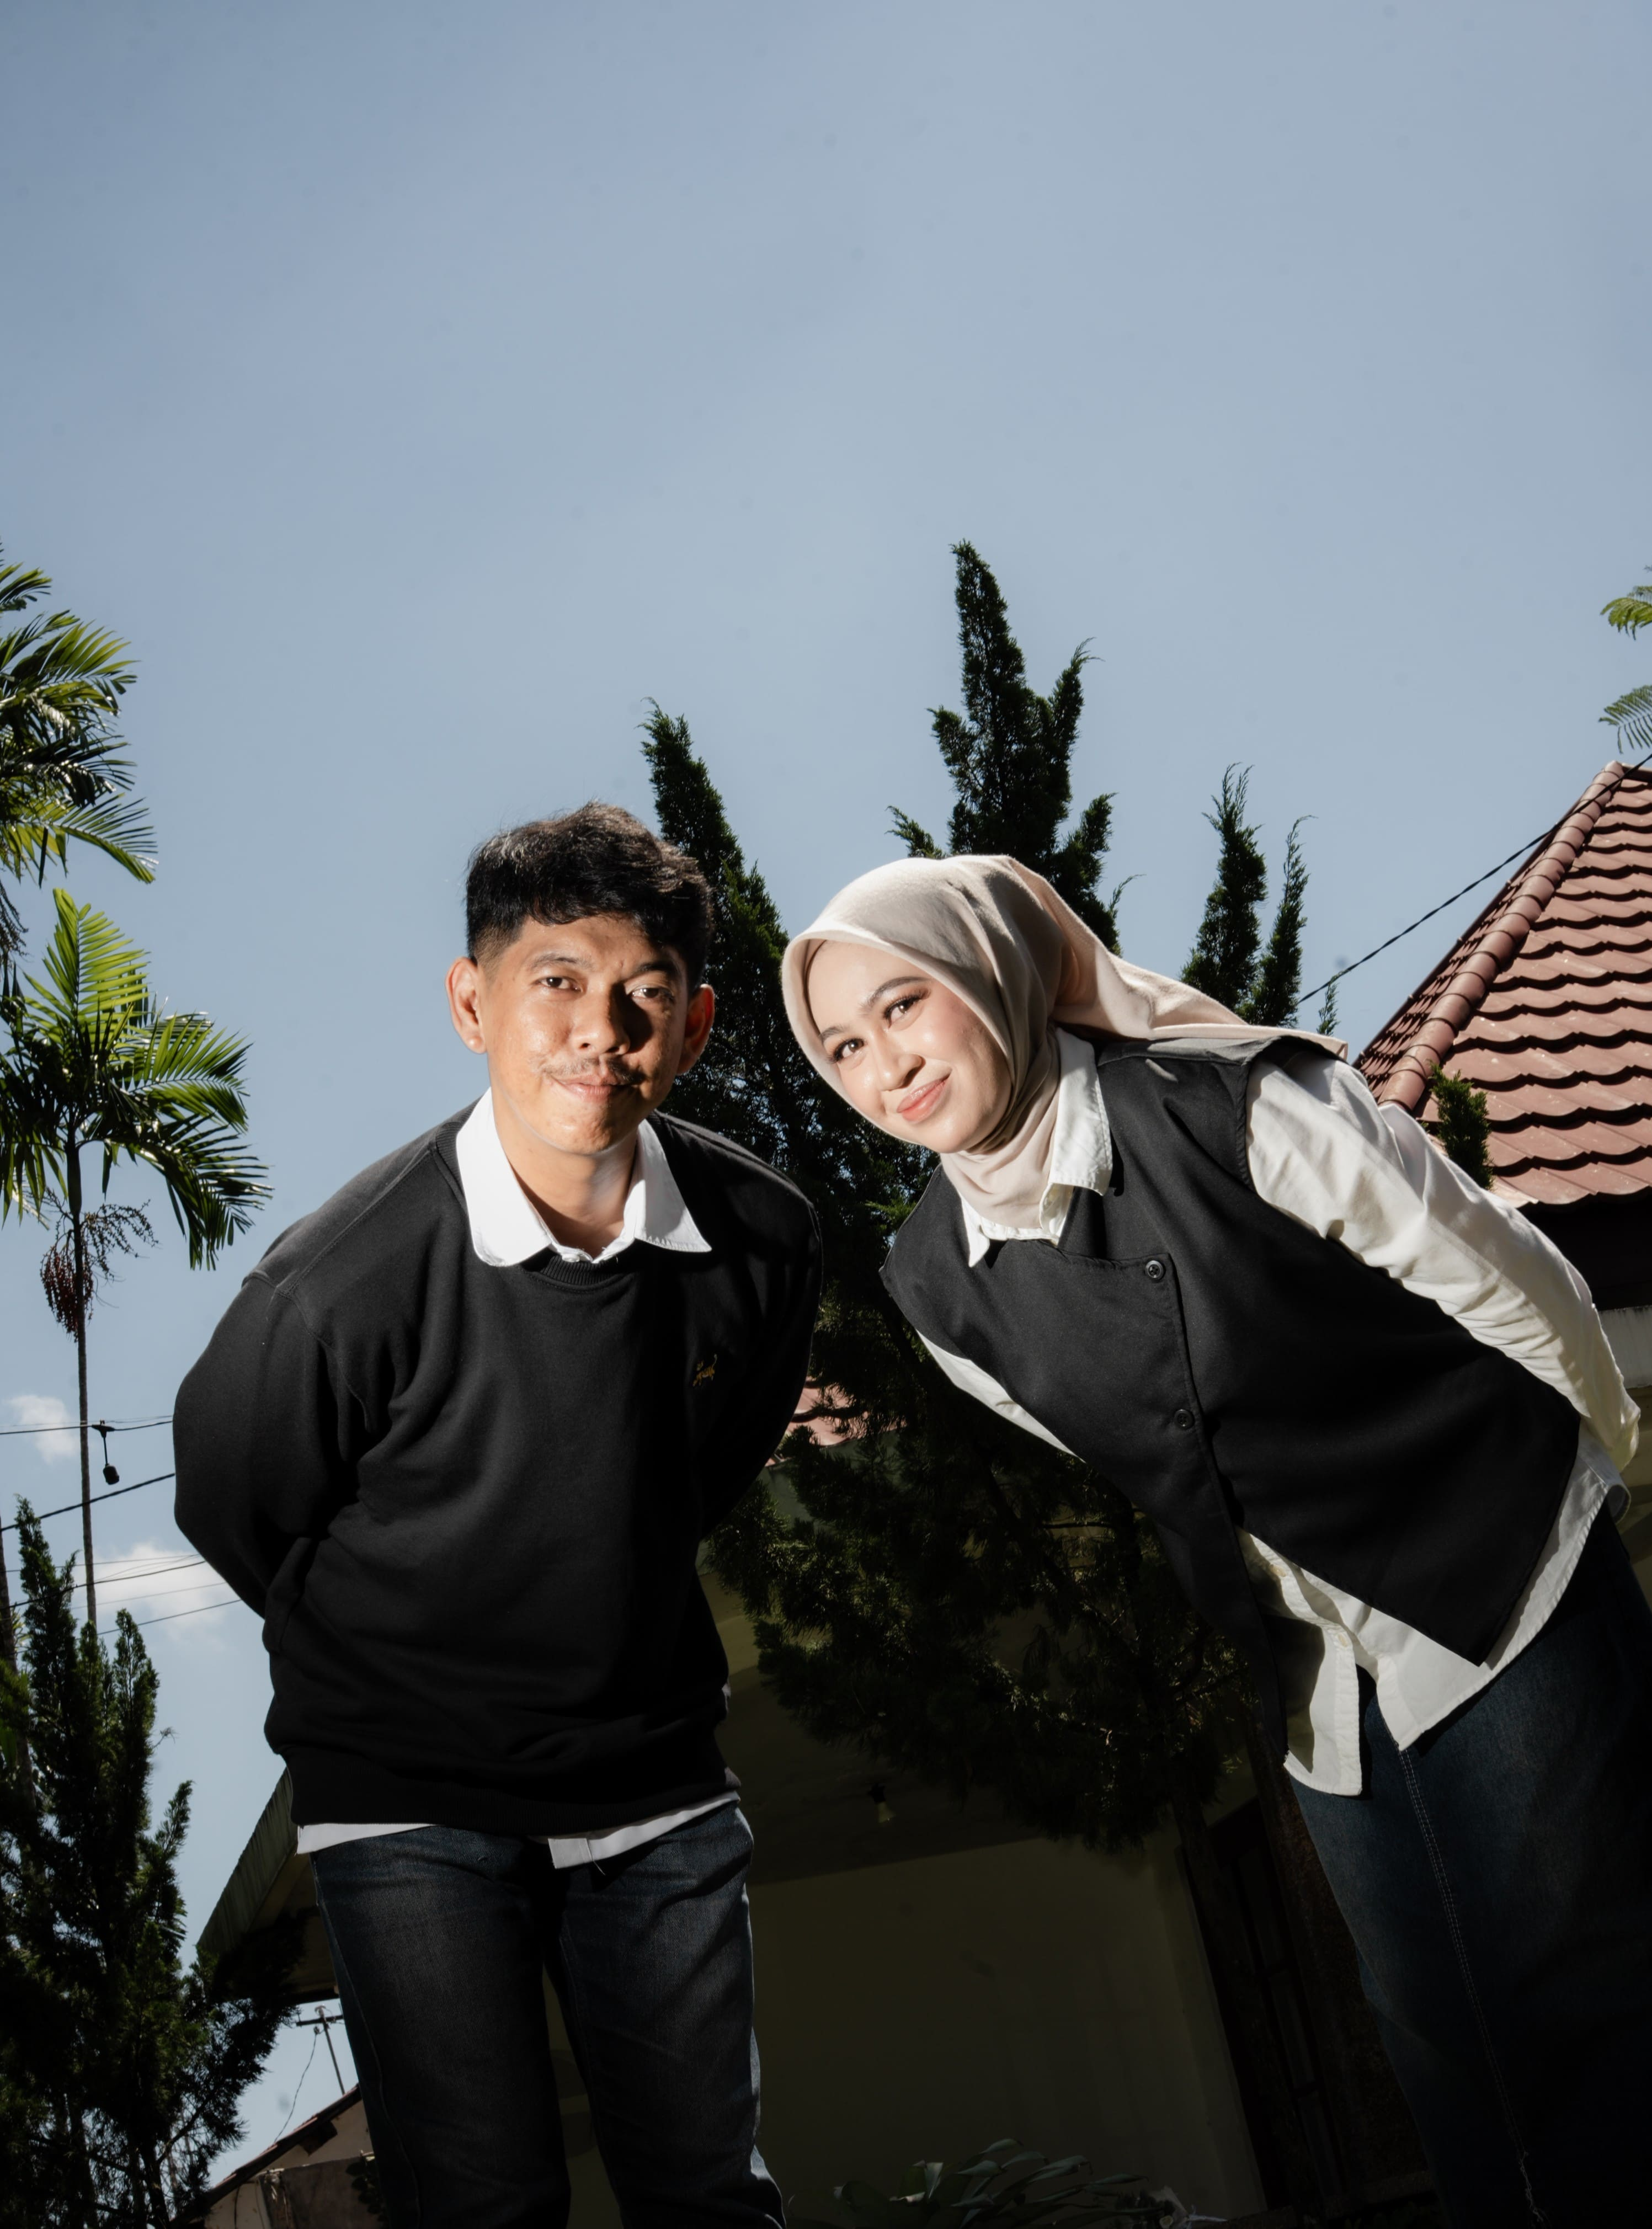
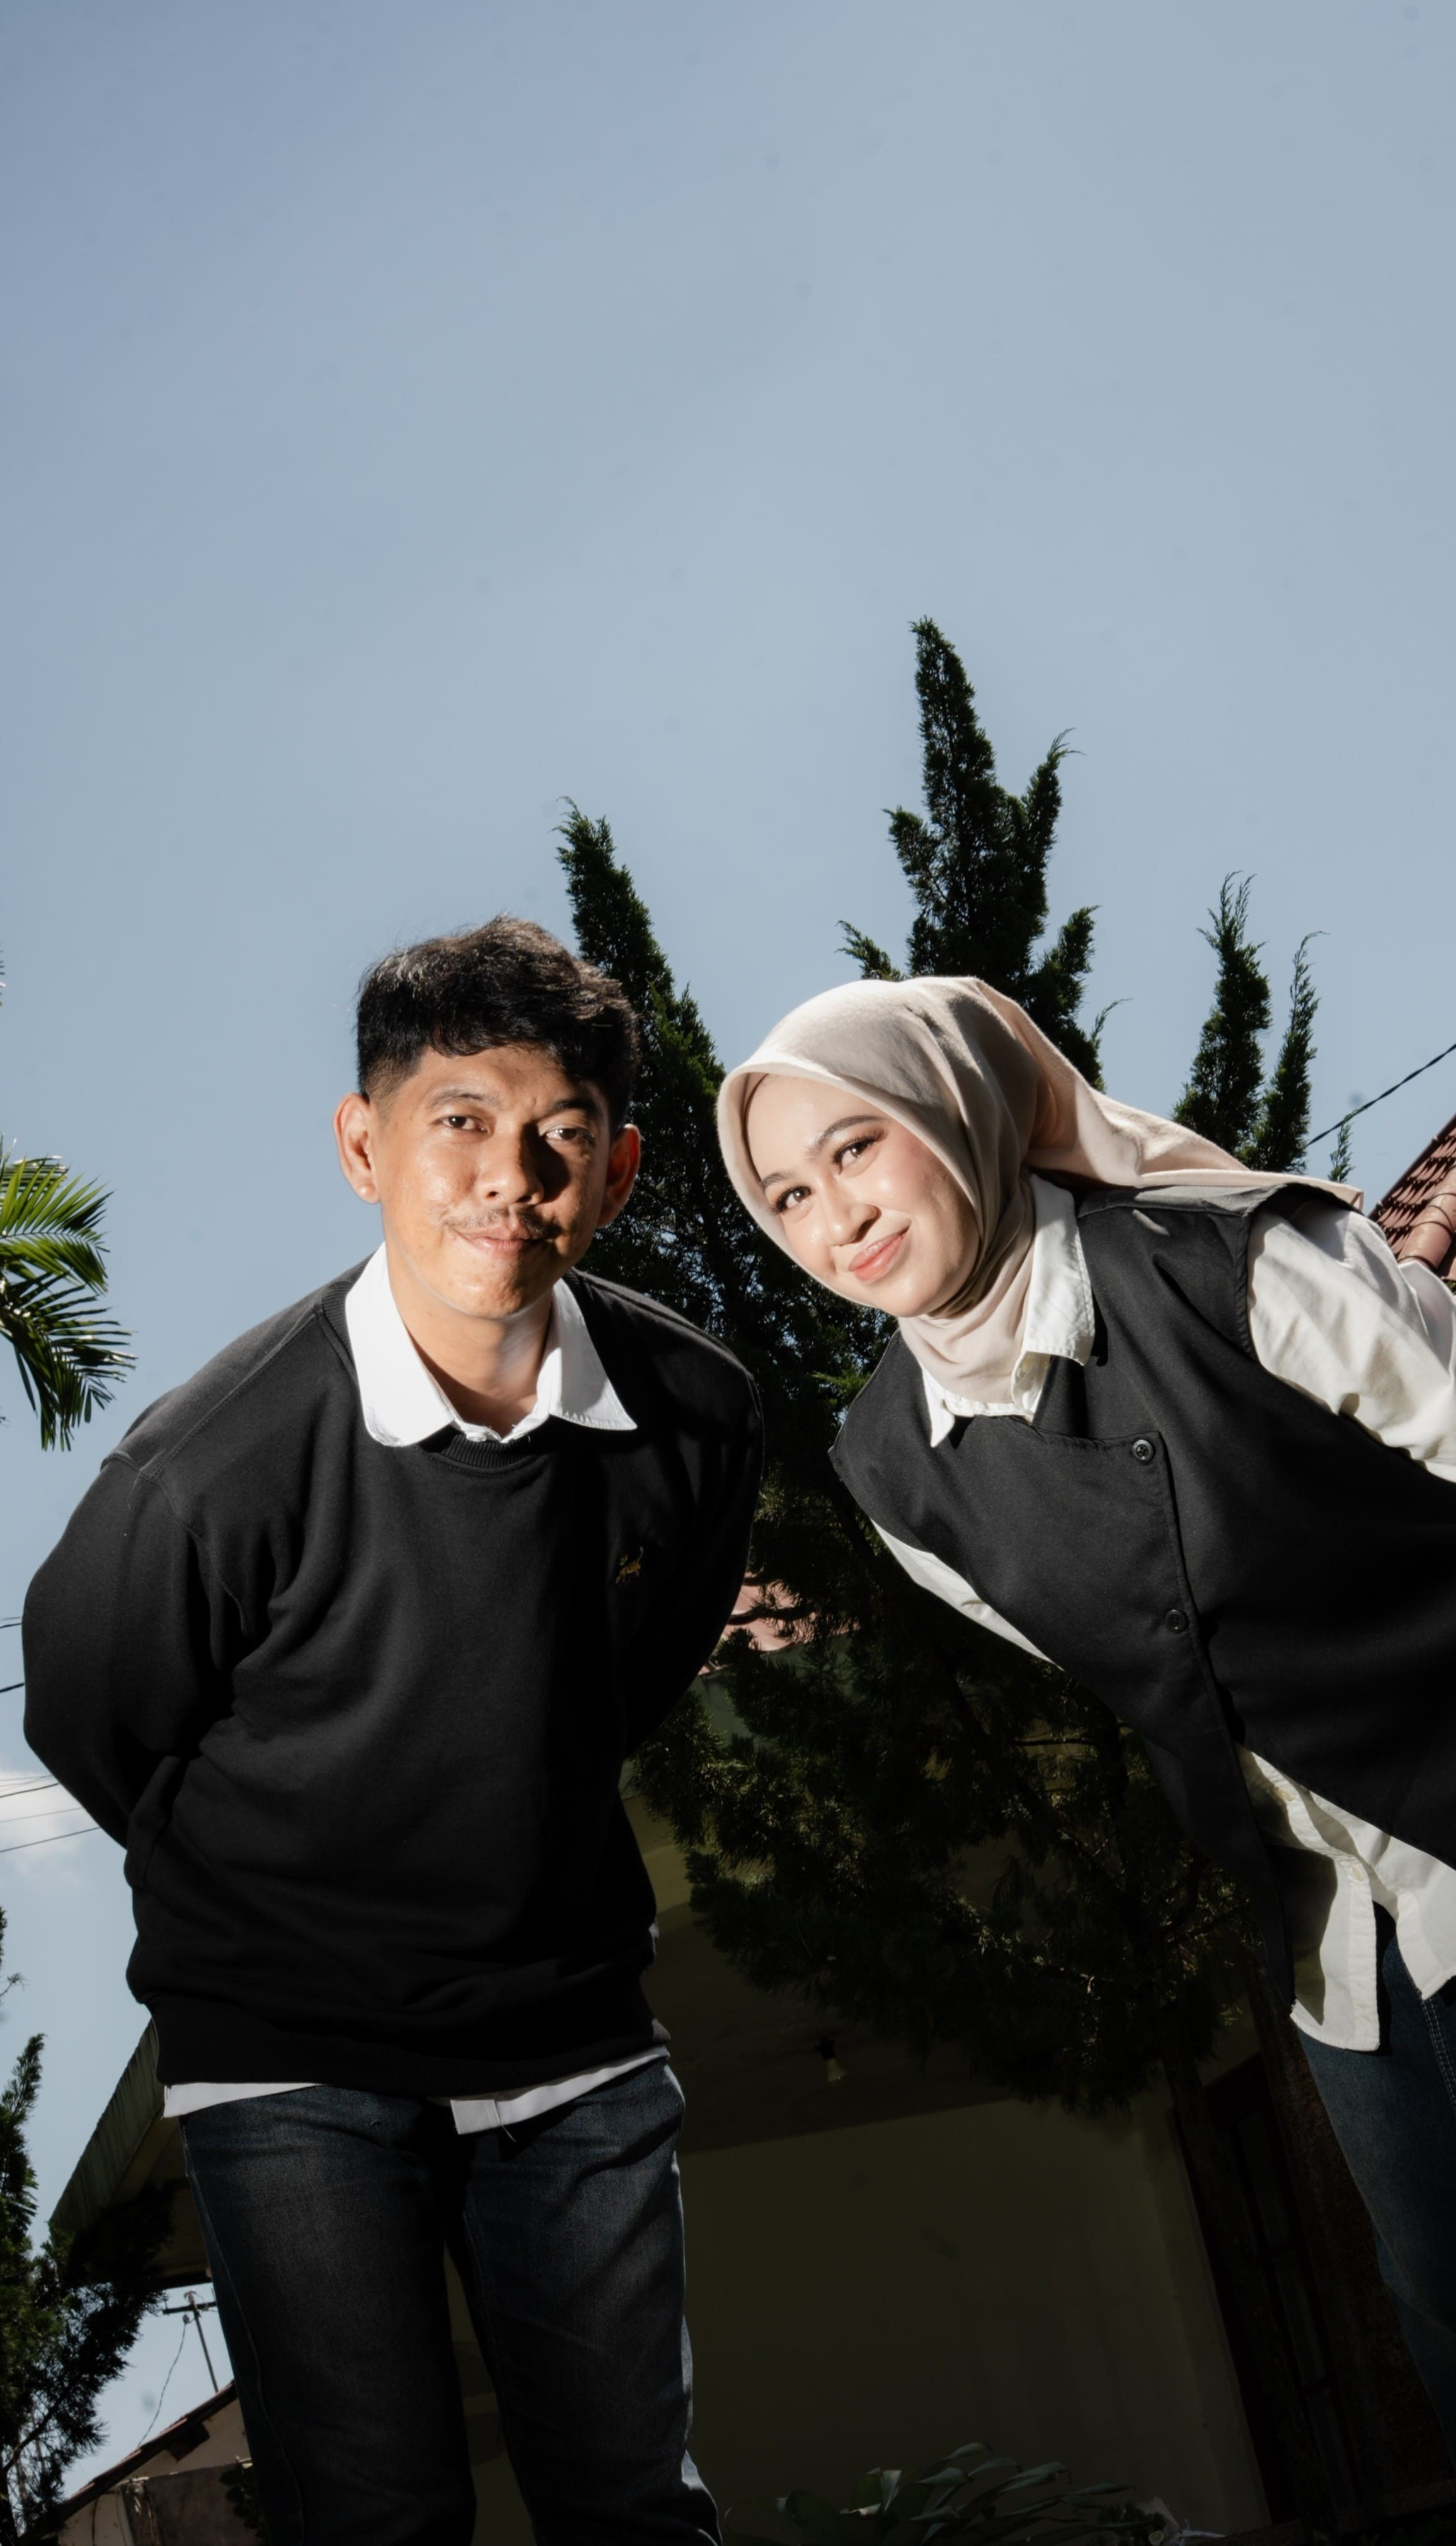
up add fix-section-2

diff --git a/src/pages/WeddingPageAjie.css b/src/pages/WeddingPageAjie.css
@@ -166,14 +166,14 @@ body {
   letter-spacing: 6px;
   text-transform: uppercase;
   color: rgba(232, 201, 160, 0.9);
-  margin-bottom: 8px;
+  margin-bottom: 3px;
 }
 
 .cover-logo {
-  width: clamp(72px, 18vw, 110px);
+  width: clamp(195px, 21vw, 180px);
   height: auto;
   object-fit: contain;
-  margin: 10px auto 4px;
+  margin: 3px auto 2px;
   display: block;
   filter: drop-shadow(0 2px 8px rgba(0,0,0,0.35));
   opacity: 0.92;
@@ -194,20 +194,20 @@ body {
   letter-spacing: 3px;
   text-transform: uppercase;
   color: rgba(232, 201, 160, 0.85);
-  margin-top: 24px;
+  margin-top: 12px;
 }
 
 .cover-visitor {
   font-family: 'Playfair Display', serif;
   font-size: clamp(20px, 5vw, 28px);
   color: #fff;
-  margin-top: 6px;
+  margin-top: 3px;
   font-weight: 500;
   text-shadow: 0 2px 12px rgba(0,0,0,0.3);
 }
 
 .cover-btn {
-  margin-top: 40px;
+  margin-top: 20px;
   padding: 14px 48px;
   font-family: 'Cormorant Garamond', serif;
   font-size: 16px;